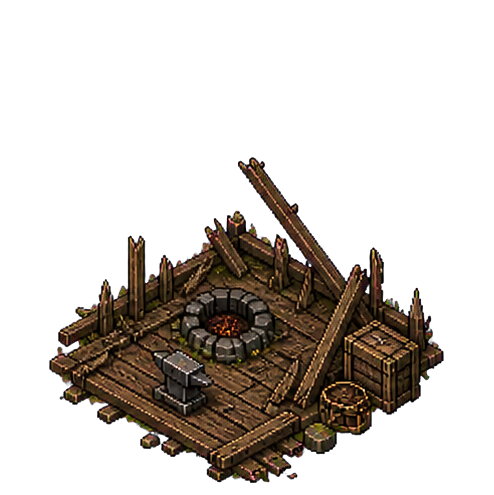
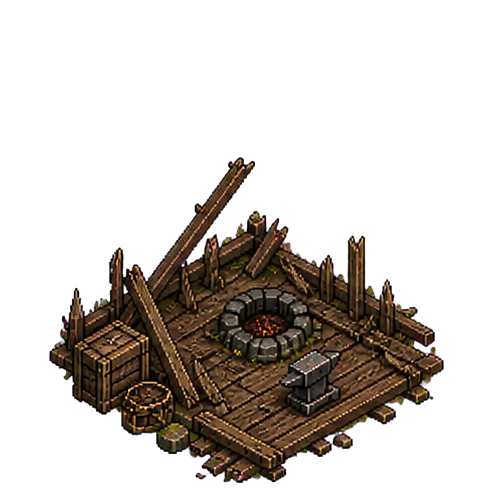
Orient camp buildings toward the village

Changed region(s): [[0.0911, 0.303, 0.9109, 1.0]]

diff --git a/tools/build_camp_layers.py b/tools/build_camp_layers.py
@@ -2,7 +2,7 @@ from __future__ import annotations
 
 from pathlib import Path
 
-from PIL import Image, ImageChops, ImageFilter
+from PIL import Image, ImageChops, ImageFilter, ImageOps
 
 
 ROOT = Path(__file__).resolve().parents[1]
@@ -53,7 +53,12 @@ def split_progression(name: str, columns: int, rows: int, count: int) -> None:
             (column + 1) * cell_width,
             (row + 1) * cell_height,
         ))
-        subjects.append(cell.crop(alpha_bbox(cell)))
+        sprite = cell.crop(alpha_bbox(cell))
+        # Both workshops live on the west side of camp. Their open working
+        # faces should look inward toward the central road, not at the fence.
+        if name in {"armory", "blacksmith"}:
+            sprite = ImageOps.mirror(sprite)
+        subjects.append(sprite)
 
     canvas_width = max(sprite.width for sprite in subjects) + PADDING * 2
     canvas_height = max(sprite.height for sprite in subjects) + PADDING * 2
@@ -71,9 +76,13 @@ def split_progression(name: str, columns: int, rows: int, count: int) -> None:
 def split_landmarks() -> None:
     atlas = Image.open(SOURCE / "landmarks_alpha.png").convert("RGBA")
     cell_width = atlas.width // 2
-    for index, name in enumerate(("veterans_hall", "campfire")):
-        cell = atlas.crop((index * cell_width, 0, (index + 1) * cell_width, atlas.height))
-        sprite = cell.crop(alpha_bbox(cell))
+    hall = Image.open(SOURCE / "veterans_hall_front_alpha.png").convert("RGBA")
+    campfire_cell = atlas.crop((cell_width, 0, atlas.width, atlas.height))
+    landmarks = {
+        "veterans_hall": hall.crop(alpha_bbox(hall)),
+        "campfire": campfire_cell.crop(alpha_bbox(campfire_cell)),
+    }
+    for name, sprite in landmarks.items():
         canvas = Image.new("RGBA", (sprite.width + PADDING * 2, sprite.height + PADDING * 2), (0, 0, 0, 0))
         canvas.alpha_composite(sprite, (PADDING, PADDING))
         final = resize_canvas(canvas)
